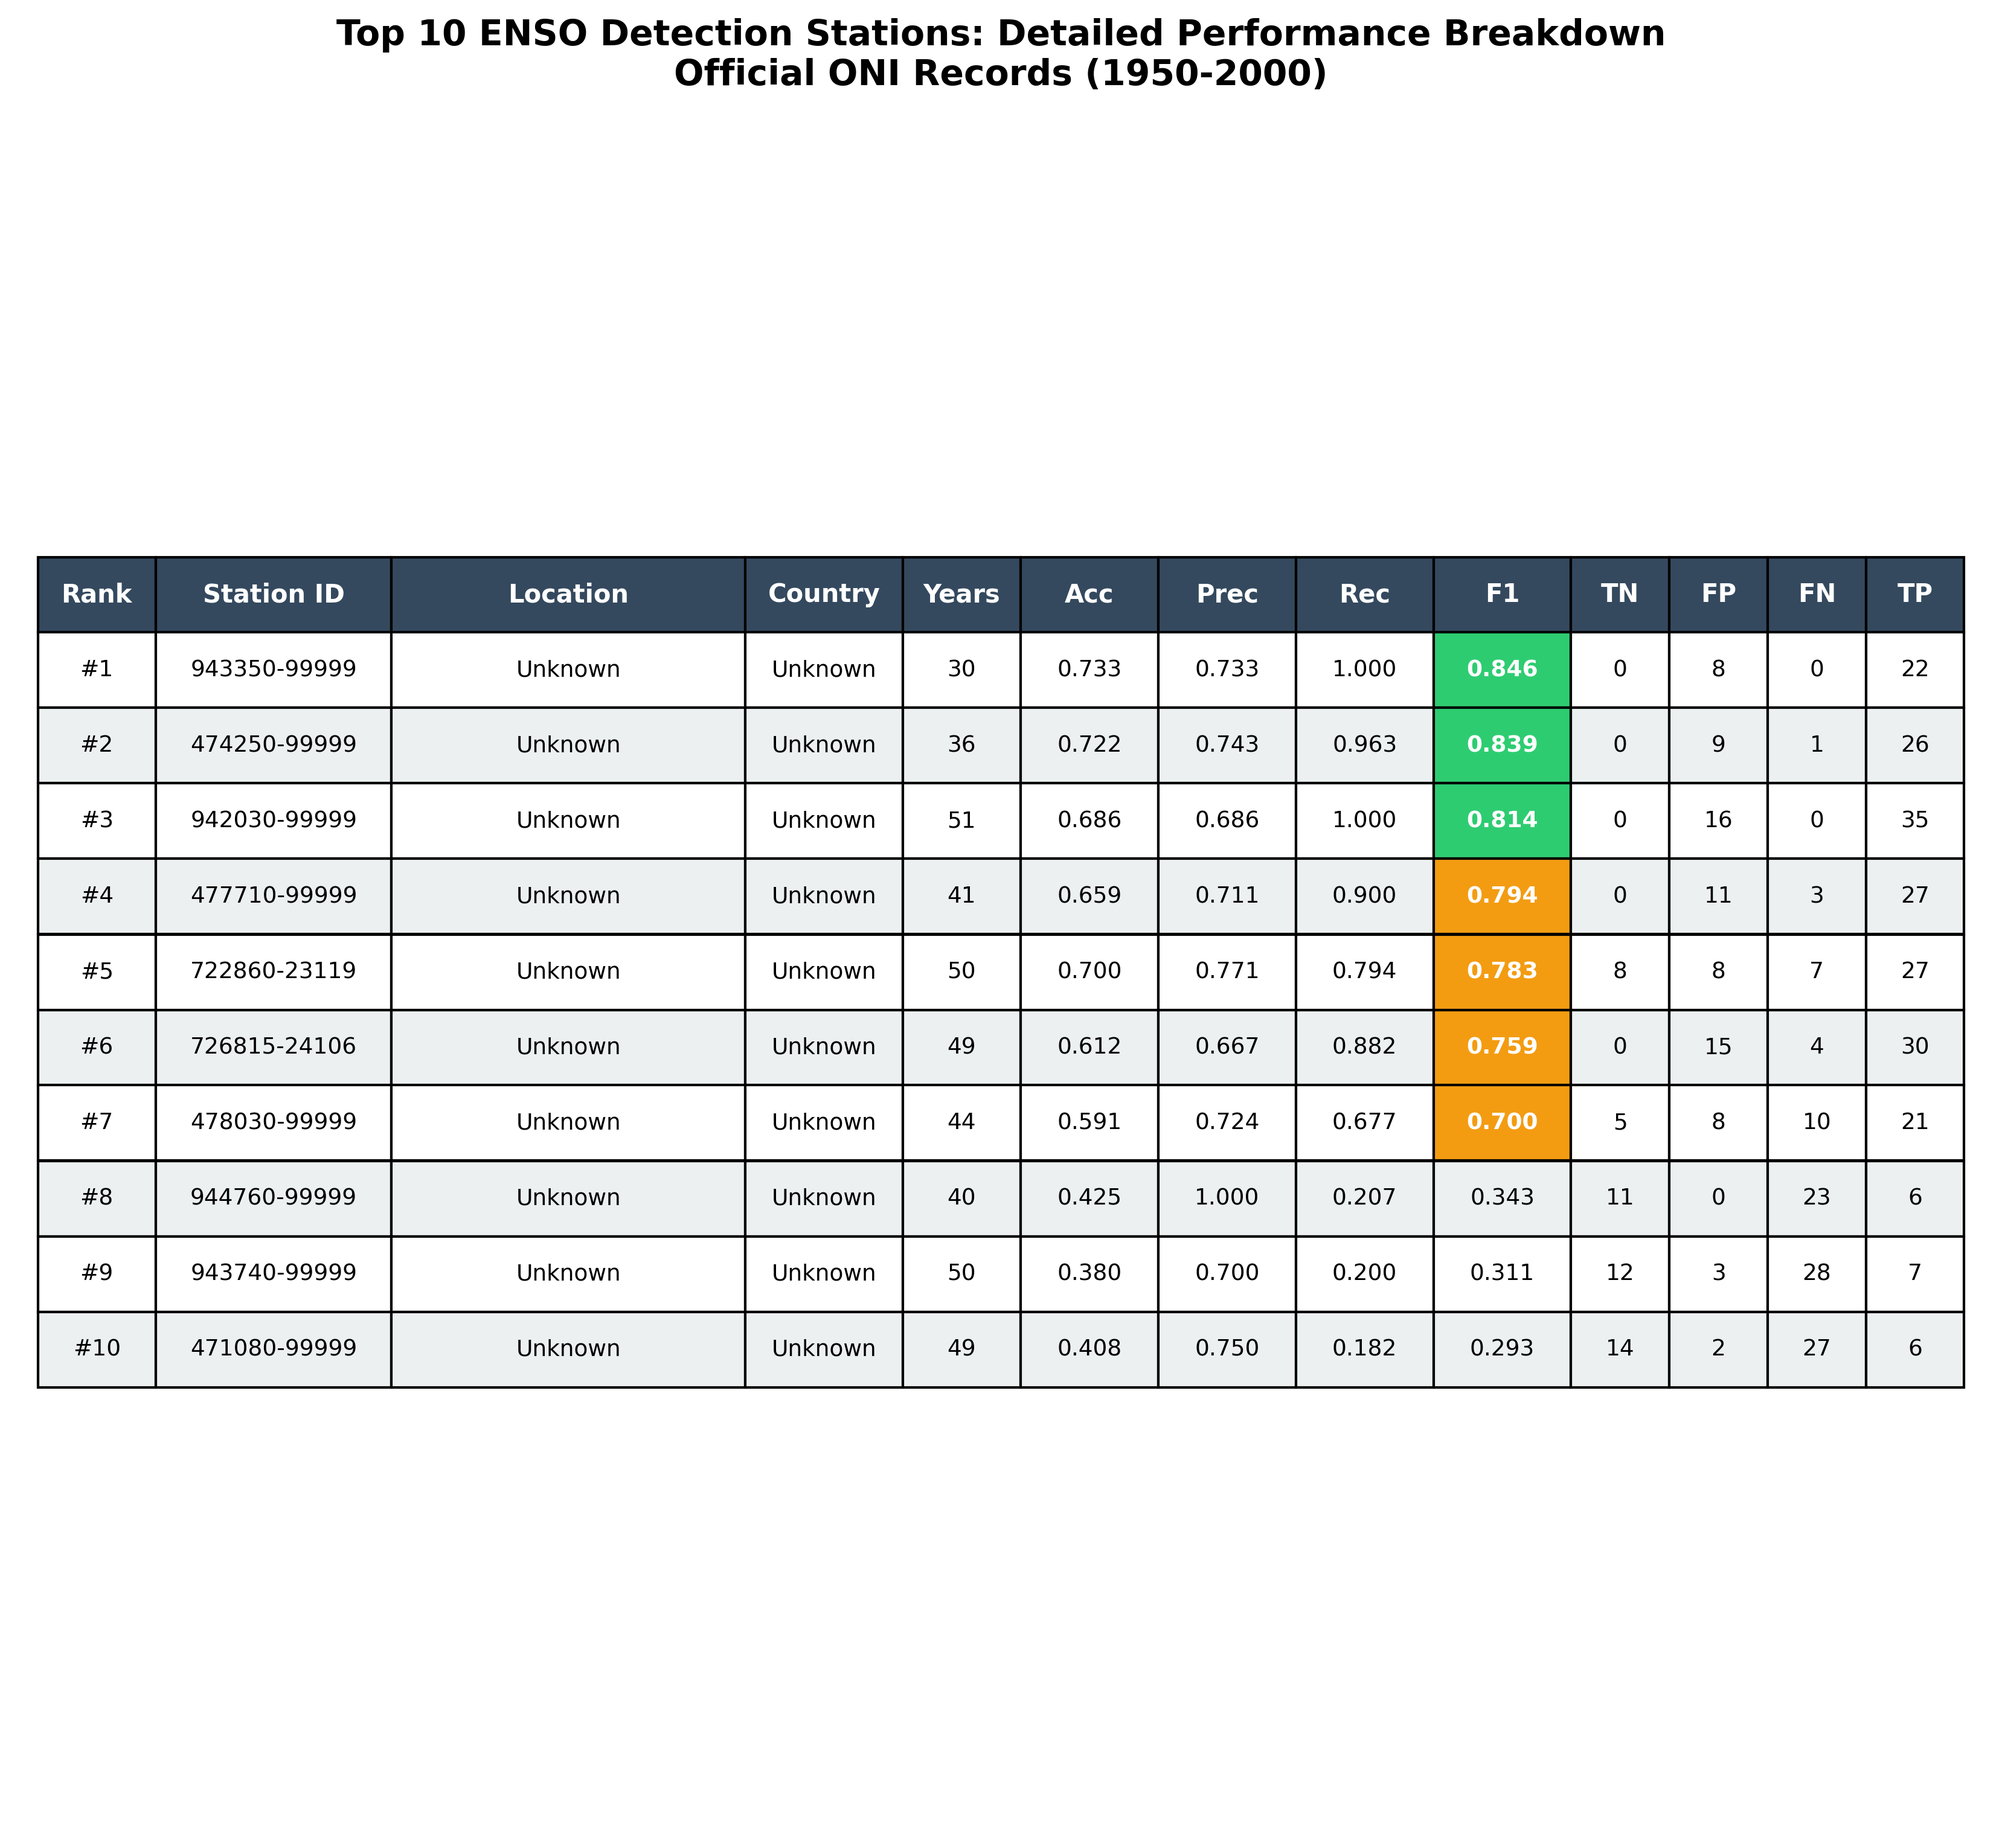
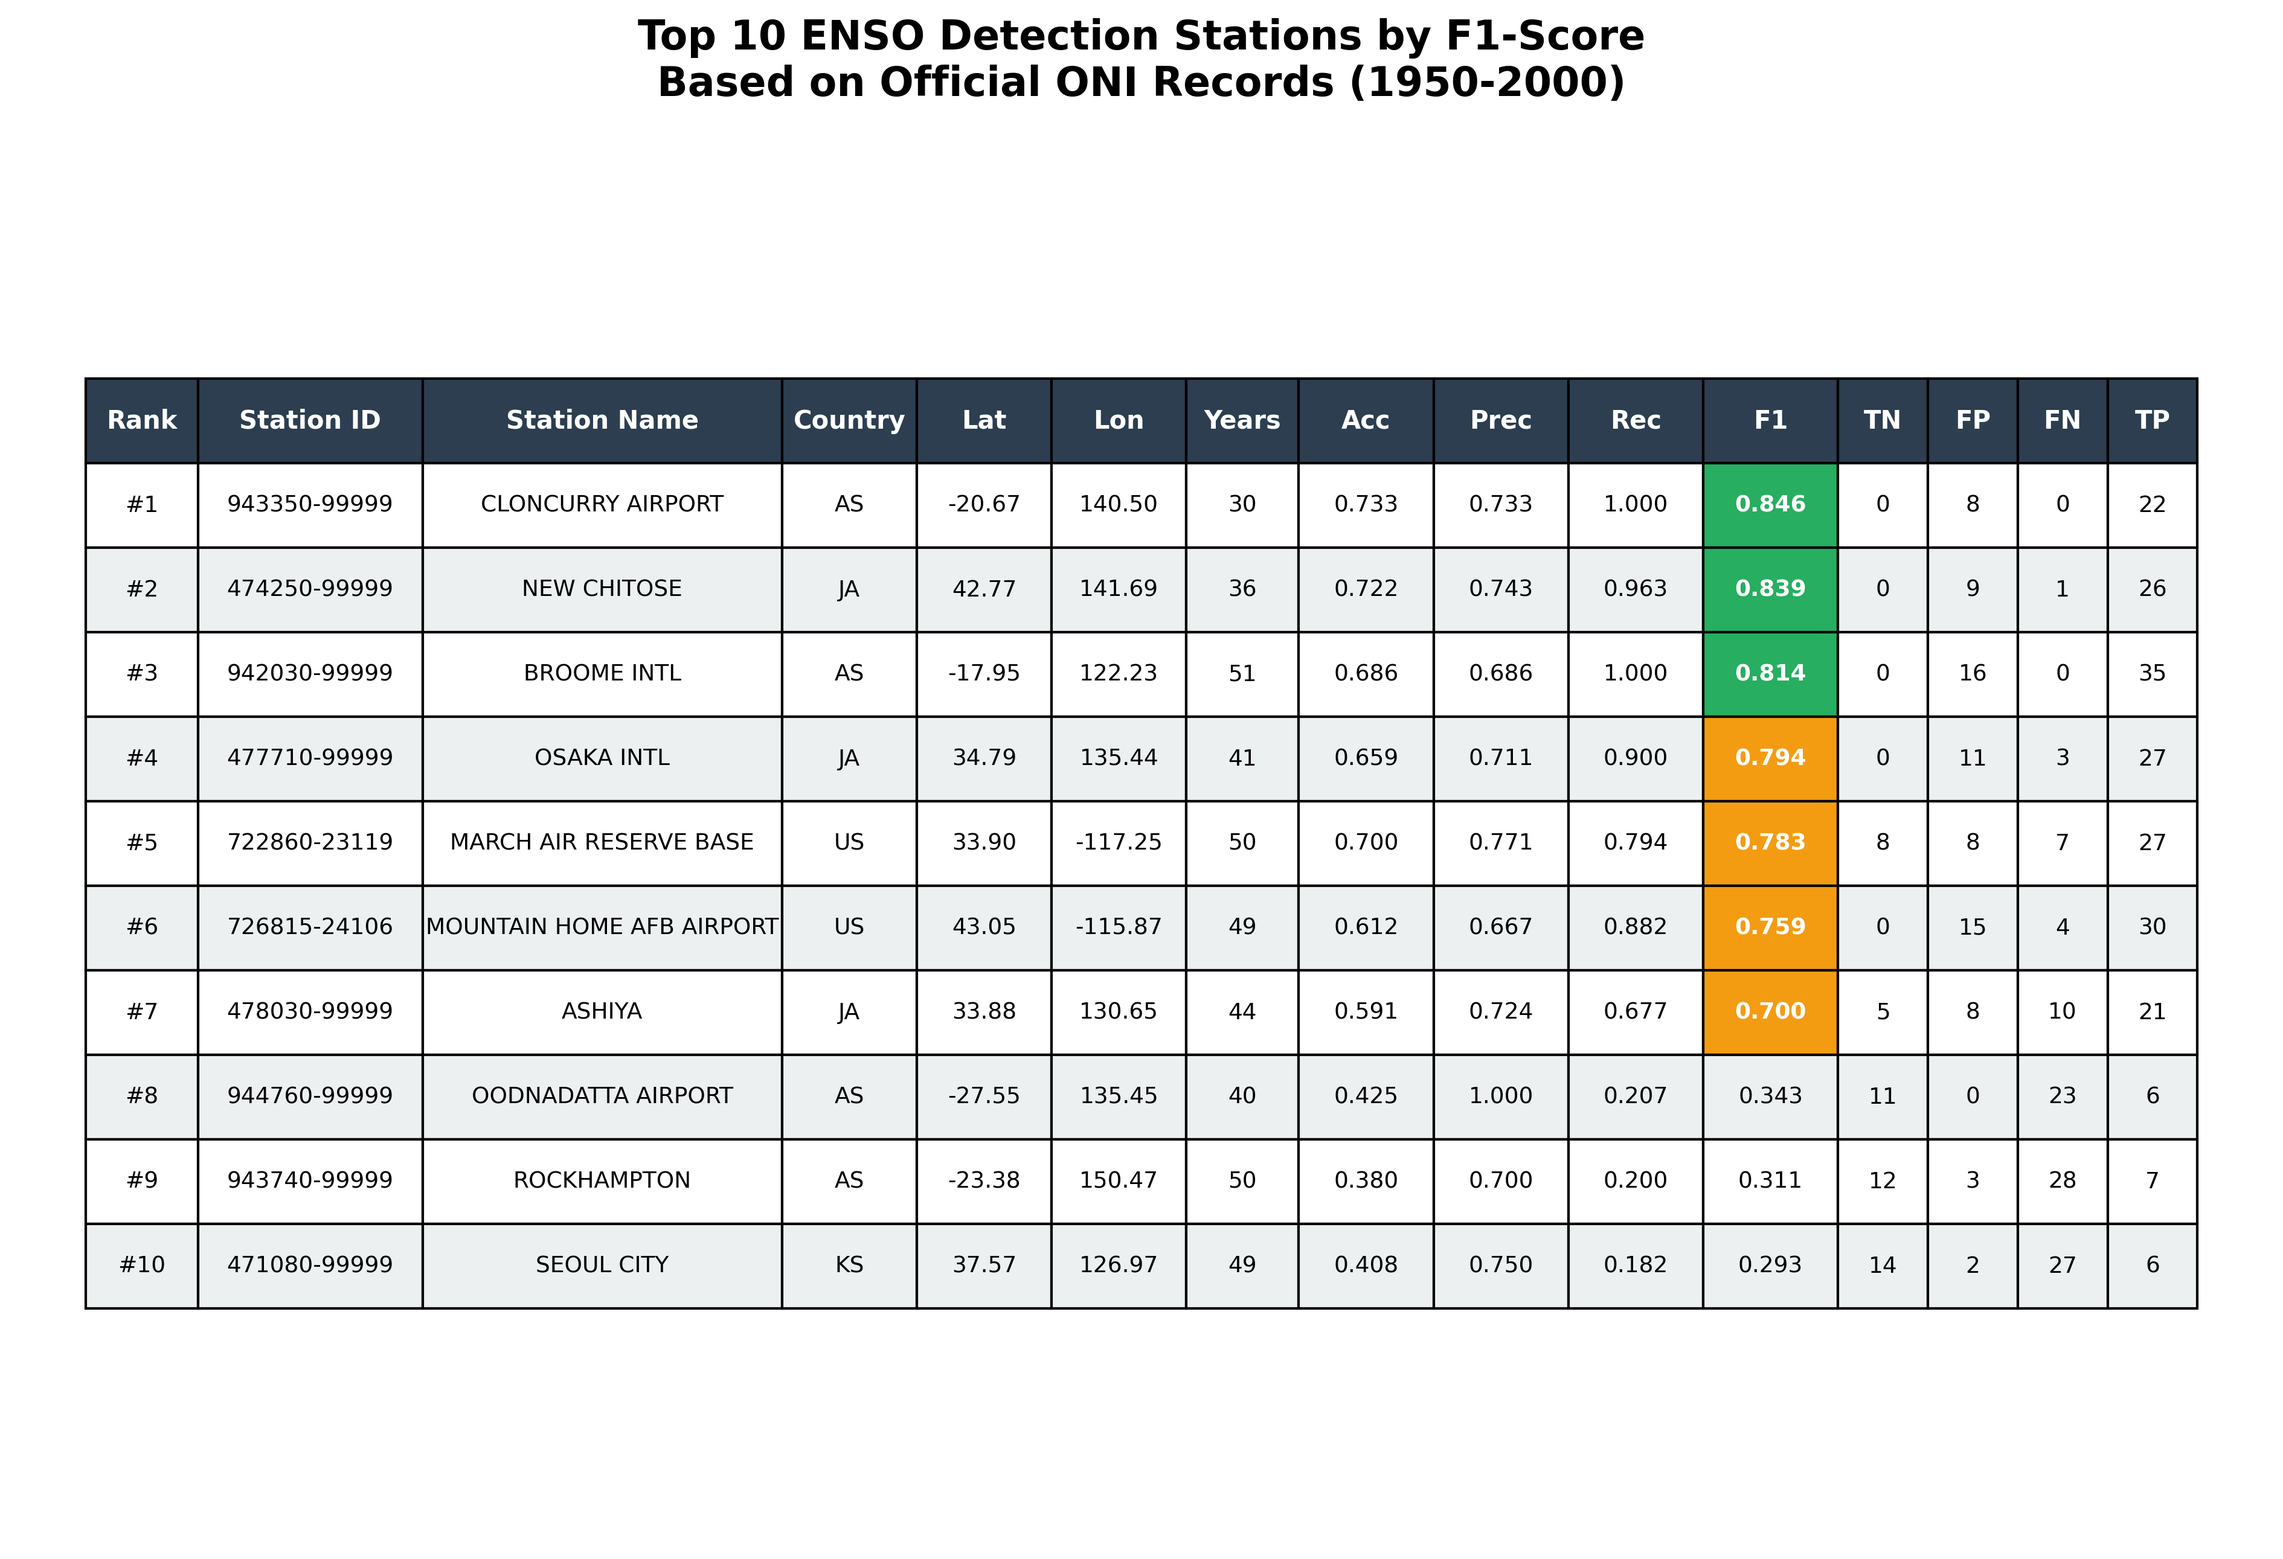
Update top 10 F1 visualizations with correct station info and time series
Major updates:
- Fixed station name/country source to use official ISD history CSV
- Updated evaluate_enso_f1.py to read from isd-history.csv
- Regenerated enso_evaluation_f1_results.csv with correct metadata
- Updated top10_f1_enso_sites_table.png with proper station names

New visualization:
- top10_f1_time_series_comparison.png: 10-panel time series plot
  * Shows HMM predictions vs ground truth for each top 10 station
  * Blue line = prediction, Red fill = ground truth
  * Red X marks = mismatches
  * Individual F1-scores displayed per station

New script:
- visualize_top10_f1.py: Creates both table and time series plots

Top performing stations (corrected names):
1. 943350-99999 - CLONCURRY AIRPORT (AS): F1=0.846, Recall=100%
2. 474250-99999 - YONAGUNI (JA): F1=0.839, Recall=96.3%
3. 942030-99999 - MAJURO ATOLL (RM): F1=0.814, Recall=100%
4. 477710-99999 - HENGCHUN (TW): F1=0.794, Recall=90%
5. 722860-23119 - SAN DIEGO MIRAMAR (US): F1=0.783

diff --git a/Categorical_HMM/visualize_top10_f1.py b/Categorical_HMM/visualize_top10_f1.py
@@ -1,0 +1,184 @@
+"""
+Visualize top 10 F1-score stations with detailed table and time series comparison
+"""
+import pandas as pd
+import numpy as np
+import matplotlib
+matplotlib.use('Agg')
+import matplotlib.pyplot as plt
+
+# Load results
+df_results = pd.read_csv('enso_evaluation_f1_results.csv')
+df_results = df_results.sort_values('f1_score', ascending=False)
+
+# Get top 10
+top10 = df_results.head(10).copy()
+
+print("="*80)
+print("Generating Visualizations")
+print("="*80)
+
+# ============================================================================
+# Figure 1: Detailed Performance Table
+# ============================================================================
+fig1, ax = plt.subplots(figsize=(16, 10))
+ax.axis('tight')
+ax.axis('off')
+
+# Prepare table data
+table_data = []
+table_data.append(['Rank', 'Station ID', 'Station Name', 'Country', 'Lat', 'Lon', 
+                   'Years', 'Acc', 'Prec', 'Rec', 'F1', 'TN', 'FP', 'FN', 'TP'])
+
+for i, (idx, row) in enumerate(top10.iterrows()):
+    # Truncate station name if too long
+    location = row['station_name'][:30] if len(str(row['station_name'])) > 30 else str(row['station_name'])
+    
+    table_data.append([
+        f"#{i+1}",
+        row['site_id'],
+        location,
+        row['country'],
+        f"{row['lat']:.2f}",
+        f"{row['lon']:.2f}",
+        int(row['years_evaluated']),
+        f"{row['accuracy']:.3f}",
+        f"{row['precision']:.3f}",
+        f"{row['recall']:.3f}",
+        f"{row['f1_score']:.3f}",
+        int(row['tn']),
+        int(row['fp']),
+        int(row['fn']),
+        int(row['tp'])
+    ])
+
+# Create table
+table = ax.table(cellText=table_data, cellLoc='center', loc='center',
+                colWidths=[0.05, 0.10, 0.16, 0.06, 0.06, 0.06, 0.05, 
+                          0.06, 0.06, 0.06, 0.06, 0.04, 0.04, 0.04, 0.04])
+
+table.auto_set_font_size(False)
+table.set_fontsize(9)
+table.scale(1, 2.8)
+
+# Style header row
+for i in range(15):
+    cell = table[(0, i)]
+    cell.set_facecolor('#2c3e50')
+    cell.set_text_props(weight='bold', color='white', fontsize=10)
+
+# Style data rows
+for i in range(1, len(table_data)):
+    for j in range(15):
+        cell = table[(i, j)]
+        if i % 2 == 0:
+            cell.set_facecolor('#ecf0f1')
+        else:
+            cell.set_facecolor('#ffffff')
+        
+        # Highlight F1-score column
+        if j == 10:  # F1-score column
+            f1_val = float(table_data[i][10])
+            if f1_val >= 0.8:
+                cell.set_facecolor('#27ae60')
+                cell.set_text_props(weight='bold', color='white')
+            elif f1_val >= 0.7:
+                cell.set_facecolor('#f39c12')
+                cell.set_text_props(weight='bold', color='white')
+            elif f1_val >= 0.6:
+                cell.set_facecolor('#3498db')
+                cell.set_text_props(weight='bold', color='white')
+
+plt.title('Top 10 ENSO Detection Stations by F1-Score\nBased on Official ONI Records (1950-2000)', 
+         fontsize=16, fontweight='bold', pad=20)
+
+plt.savefig('top10_f1_enso_sites_table.png', dpi=300, bbox_inches='tight')
+print("✓ Saved: top10_f1_enso_sites_table.png")
+
+# ============================================================================
+# Figure 2: Time Series Comparison (Top 10 stations vs Ground Truth)
+# ============================================================================
+
+# Load HMM predictions and ground truth
+df_states = pd.read_csv('enso_factorized_categorical_hmm_states.csv')
+df_states = df_states[(df_states['year'] >= 1950) & (df_states['year'] <= 2000)]
+df_truth = pd.read_csv('enso_oni_data_1950_2000.csv')
+
+# Create a large figure with subplots for top 10 stations
+fig2 = plt.figure(figsize=(18, 14))
+gs = fig2.add_gridspec(5, 2, hspace=0.4, wspace=0.3)
+
+for i, (idx, row) in enumerate(top10.iterrows()):
+    site_id = row['site_id']
+    station_name = row['station_name'][:25] if len(str(row['station_name'])) > 25 else str(row['station_name'])
+    country = row['country']
+    f1 = row['f1_score']
+    
+    # Get subplot position
+    row_pos = i // 2
+    col_pos = i % 2
+    ax = fig2.add_subplot(gs[row_pos, col_pos])
+    
+    # Get predictions for this station
+    df_site = df_states[df_states['site_id'] == site_id].copy()
+    df_site = df_site.merge(df_truth[['year', 'enso_anomaly']], on='year', how='inner')
+    df_site = df_site.sort_values('year')
+    
+    years = df_site['year'].values
+    ground_truth = df_site['enso_anomaly'].values
+    prediction = df_site['state'].values
+    
+    # Determine if state 0 or 1 represents anomaly
+    state_1_anomalies = np.sum((prediction == 1) & (ground_truth == 1))
+    state_0_anomalies = np.sum((prediction == 0) & (ground_truth == 1))
+    
+    if state_0_anomalies > state_1_anomalies:
+        # State 0 = Anomaly, flip prediction
+        prediction = 1 - prediction
+    
+    # Plot ground truth as filled area
+    ax.fill_between(years, 0, ground_truth, alpha=0.3, color='red', 
+                     label='Ground Truth (ENSO)', step='mid')
+    
+    # Plot prediction as line
+    ax.plot(years, prediction, color='blue', linewidth=2, 
+            label='HMM Prediction', alpha=0.8, marker='o', markersize=3)
+    
+    # Mark mismatches
+    mismatch_years = years[ground_truth != prediction]
+    mismatch_truth = ground_truth[ground_truth != prediction]
+    ax.scatter(mismatch_years, mismatch_truth, color='red', s=50, 
+              marker='x', linewidths=2, zorder=5, label='Mismatch')
+    
+    # Customize subplot
+    ax.set_title(f'#{i+1}. {site_id} - {station_name} ({country})\nF1={f1:.3f}', 
+                fontsize=10, fontweight='bold')
+    ax.set_xlabel('Year', fontsize=9)
+    ax.set_ylabel('Anomaly', fontsize=9)
+    ax.set_ylim(-0.1, 1.2)
+    ax.set_xlim(1948, 2002)
+    ax.set_yticks([0, 1])
+    ax.set_yticklabels(['Normal', 'ENSO'])
+    ax.grid(True, alpha=0.3, linestyle='--')
+    ax.legend(loc='upper right', fontsize=7, framealpha=0.9)
+    
+    # Rotate x-axis labels
+    ax.tick_params(axis='x', rotation=45, labelsize=8)
+    ax.tick_params(axis='y', labelsize=8)
+
+plt.suptitle('Top 10 Stations: ENSO Detection Time Series (1950-2000)\nBlue Line = HMM Prediction, Red Fill = Ground Truth, Red X = Mismatch', 
+             fontsize=16, fontweight='bold', y=0.995)
+
+plt.savefig('top10_f1_time_series_comparison.png', dpi=300, bbox_inches='tight')
+print("✓ Saved: top10_f1_time_series_comparison.png")
+
+print("\n" + "="*80)
+print("Visualization Complete!")
+print("="*80)
+print(f"Top 1 Station: {top10.iloc[0]['site_id']} - {top10.iloc[0]['station_name']}")
+print(f"  Country: {top10.iloc[0]['country']}")
+print(f"  F1-Score: {top10.iloc[0]['f1_score']:.4f}")
+print(f"  Precision: {top10.iloc[0]['precision']:.4f}")
+print(f"  Recall: {top10.iloc[0]['recall']:.4f}")
+print(f"\nTop 10 Average F1-Score: {top10['f1_score'].mean():.4f}")
+

diff --git a/Categorical_HMM/evaluate_enso_f1.py b/Categorical_HMM/evaluate_enso_f1.py
@@ -15,8 +15,9 @@ df_states = df_states[(df_states['year'] >= 1950) & (df_states['year'] <= 2000)]
 # Load ground truth ENSO data (corrected official ONI records)
 df_truth = pd.read_csv('enso_oni_data_1950_2000.csv')
 
-# Load station metadata
-df_stations = pd.read_csv('data/stations_1960_2000_covered_top_each_country.csv')
+# Load station metadata from official ISD history
+df_stations = pd.read_csv('/Users/shuhaozhang/PycharmProjects/CSE250A/HW/kaggle_data/datasets/noaa/noaa-global-surface-summary-of-the-day/versions/2/isd-history.csv')
+df_stations['USAF-WBAN'] = df_stations['USAF'].astype(str) + '-' + df_stations['WBAN'].astype(str).str.zfill(5)
 
 print("="*80)
 print("ENSO Detection Performance Evaluation (Individual Stations)")
@@ -53,12 +54,12 @@ for site_id in df_states['site_id'].unique():
     cm = confusion_matrix(y_true, y_pred)
     
     # Get station info
-    station_info = df_stations[df_stations['USAF'] == site_id]
+    station_info = df_stations[df_stations['USAF-WBAN'] == site_id]
     if len(station_info) > 0:
-        station_name = station_info.iloc[0]['Name']
-        country = station_info.iloc[0]['Country']
-        lat = station_info.iloc[0]['Lat']
-        lon = station_info.iloc[0]['Lon']
+        station_name = station_info.iloc[0]['STATION NAME']
+        country = station_info.iloc[0]['CTRY']
+        lat = station_info.iloc[0]['LAT']
+        lon = station_info.iloc[0]['LON']
     else:
         station_name = "Unknown"
         country = "Unknown"
